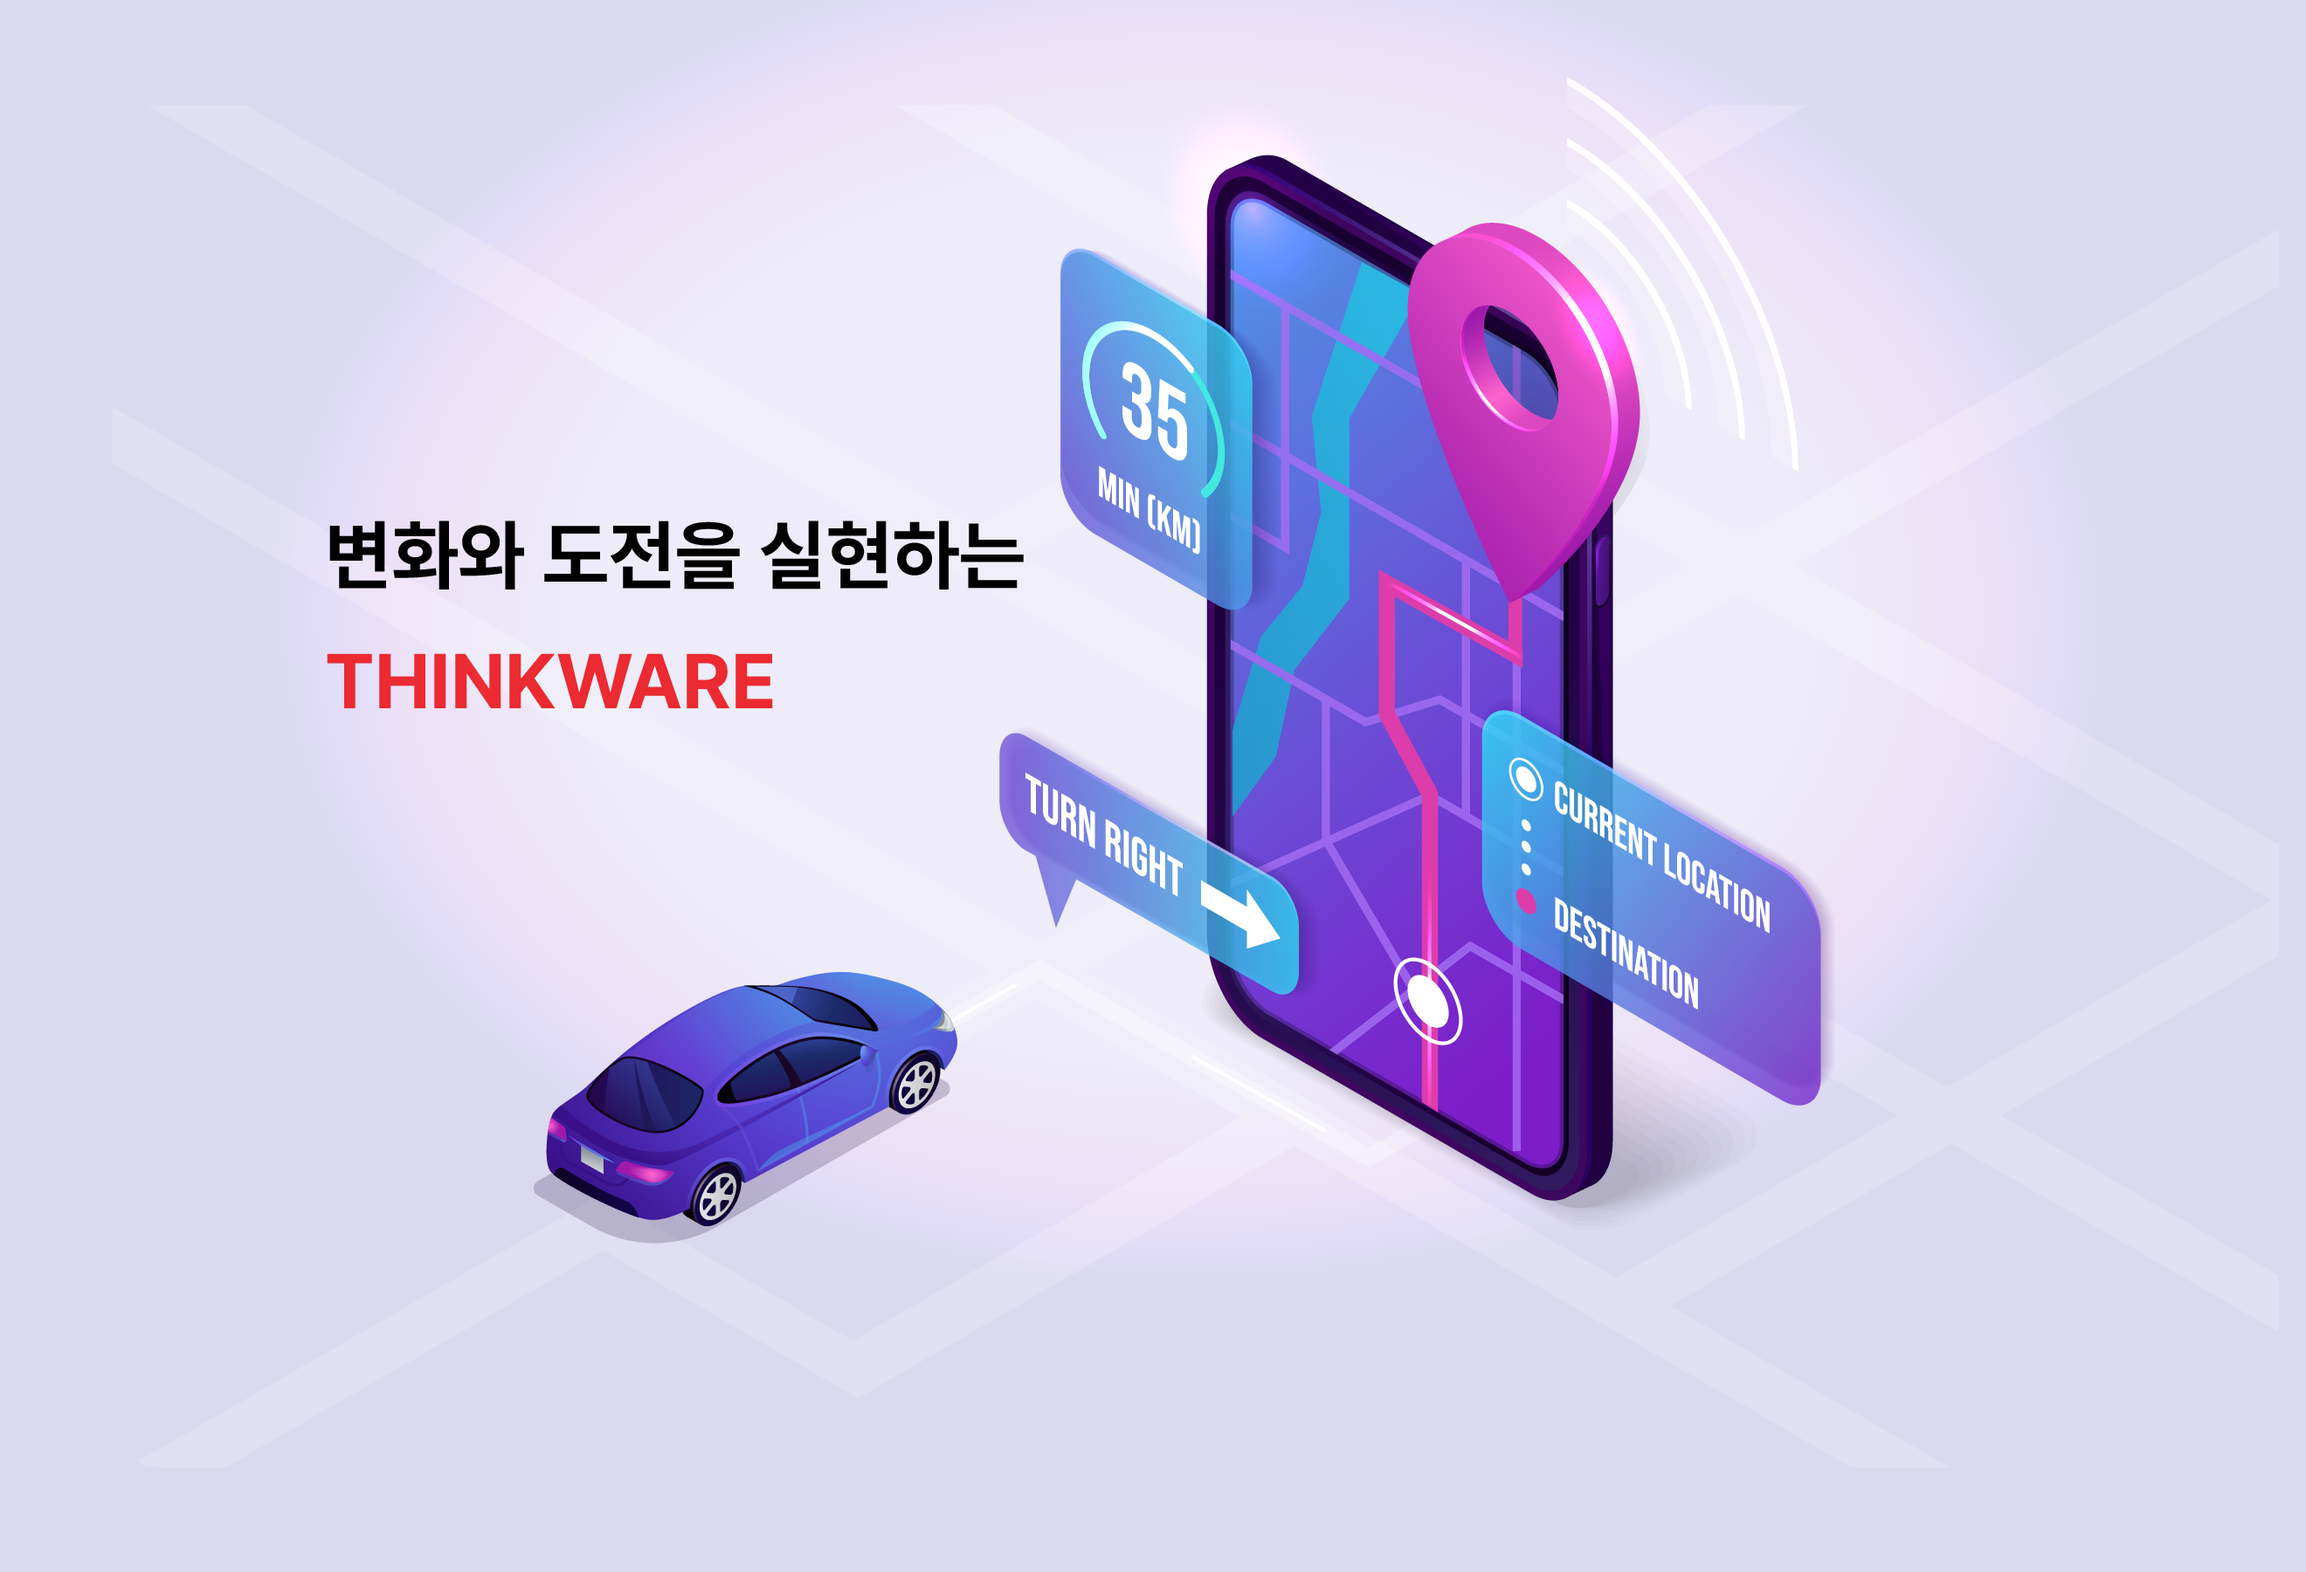
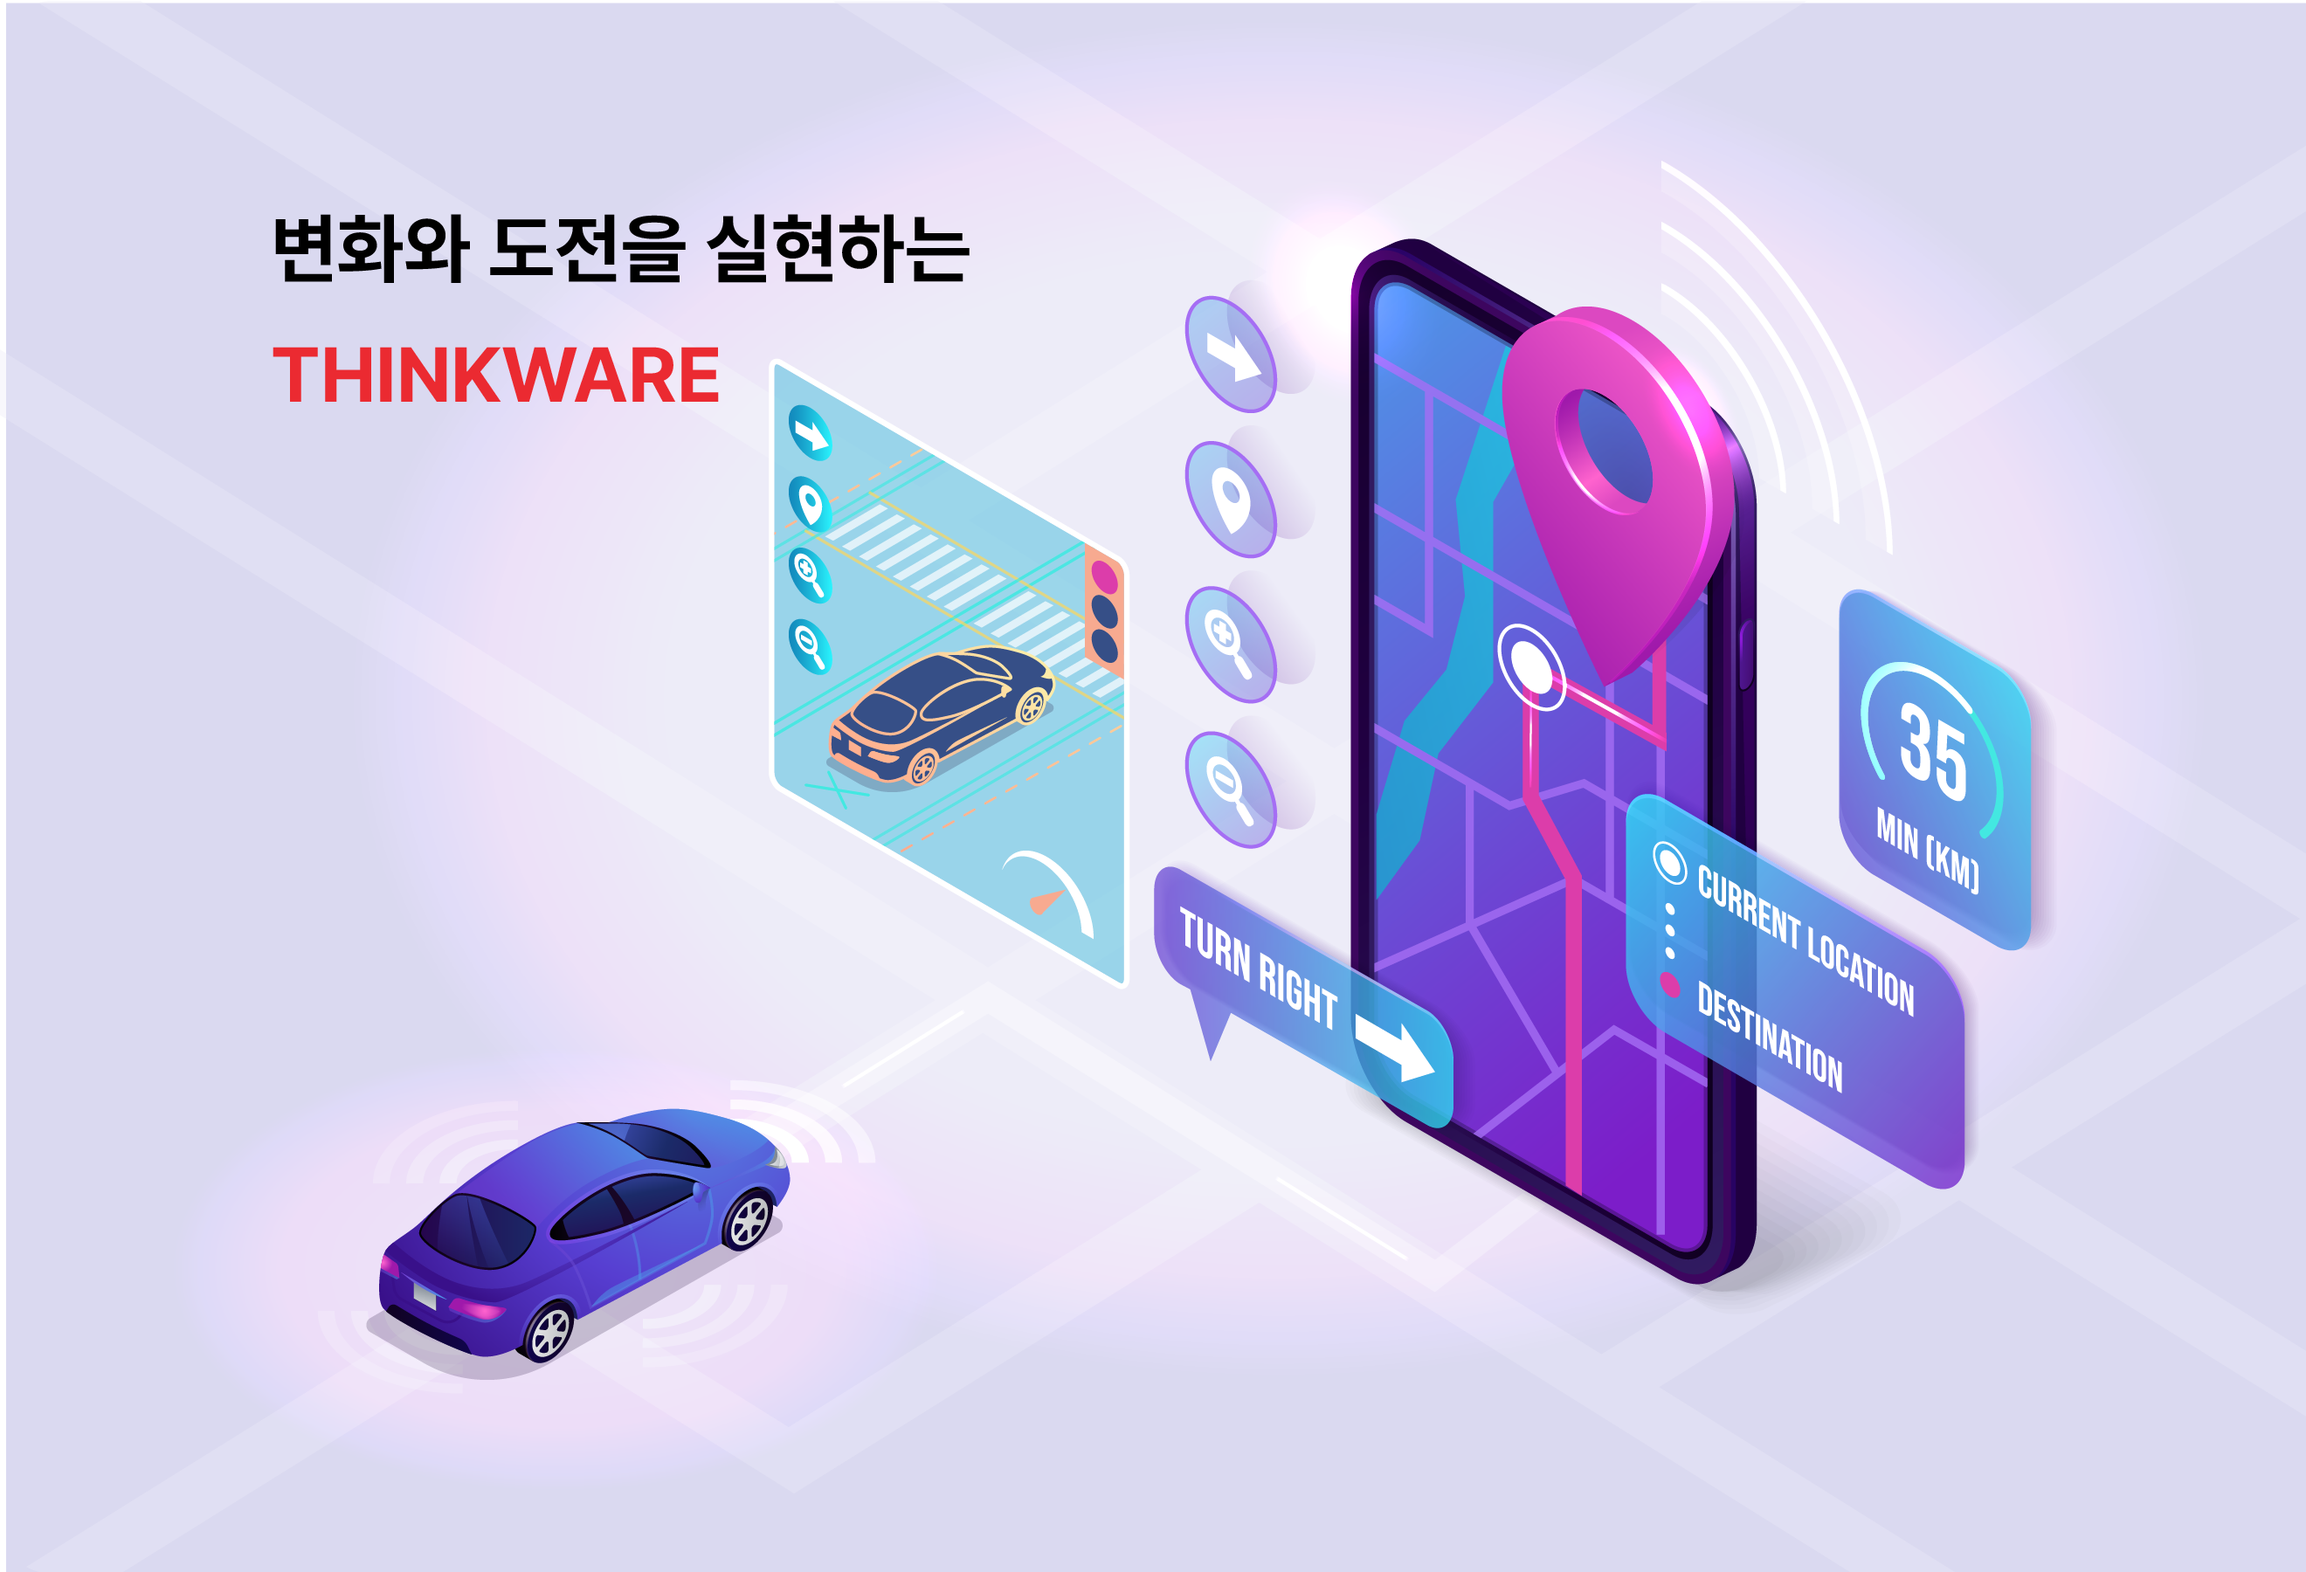
고객사 요청으로 이미지 변경

diff --git a/index.html b/index.html
@@ -6,7 +6,7 @@
   <meta name="viewport" content="width=device-width, initial-scale=1.0">
   <title>THINKWARE QMS PORTAL</title>
   <link rel="stylesheet" href="style.css">
-  <script defer src="main.js"></script>
+  <script defer src="main0.js"></script>
 </head>
 
 <body>
@@ -15,8 +15,7 @@
       <div class="bgSection">
         <figure id="frame">
           <ul class="panels">
-            <li><img src="img/main_bg1.png" alt="main background3"></li>
-            <li><img src="img/main_bg2.png" alt="main background3"></li>
+            <li class="on"><img src="img/main_bg1.png" alt="main background3"></li>
           </ul>
         </figure>
       </div>
